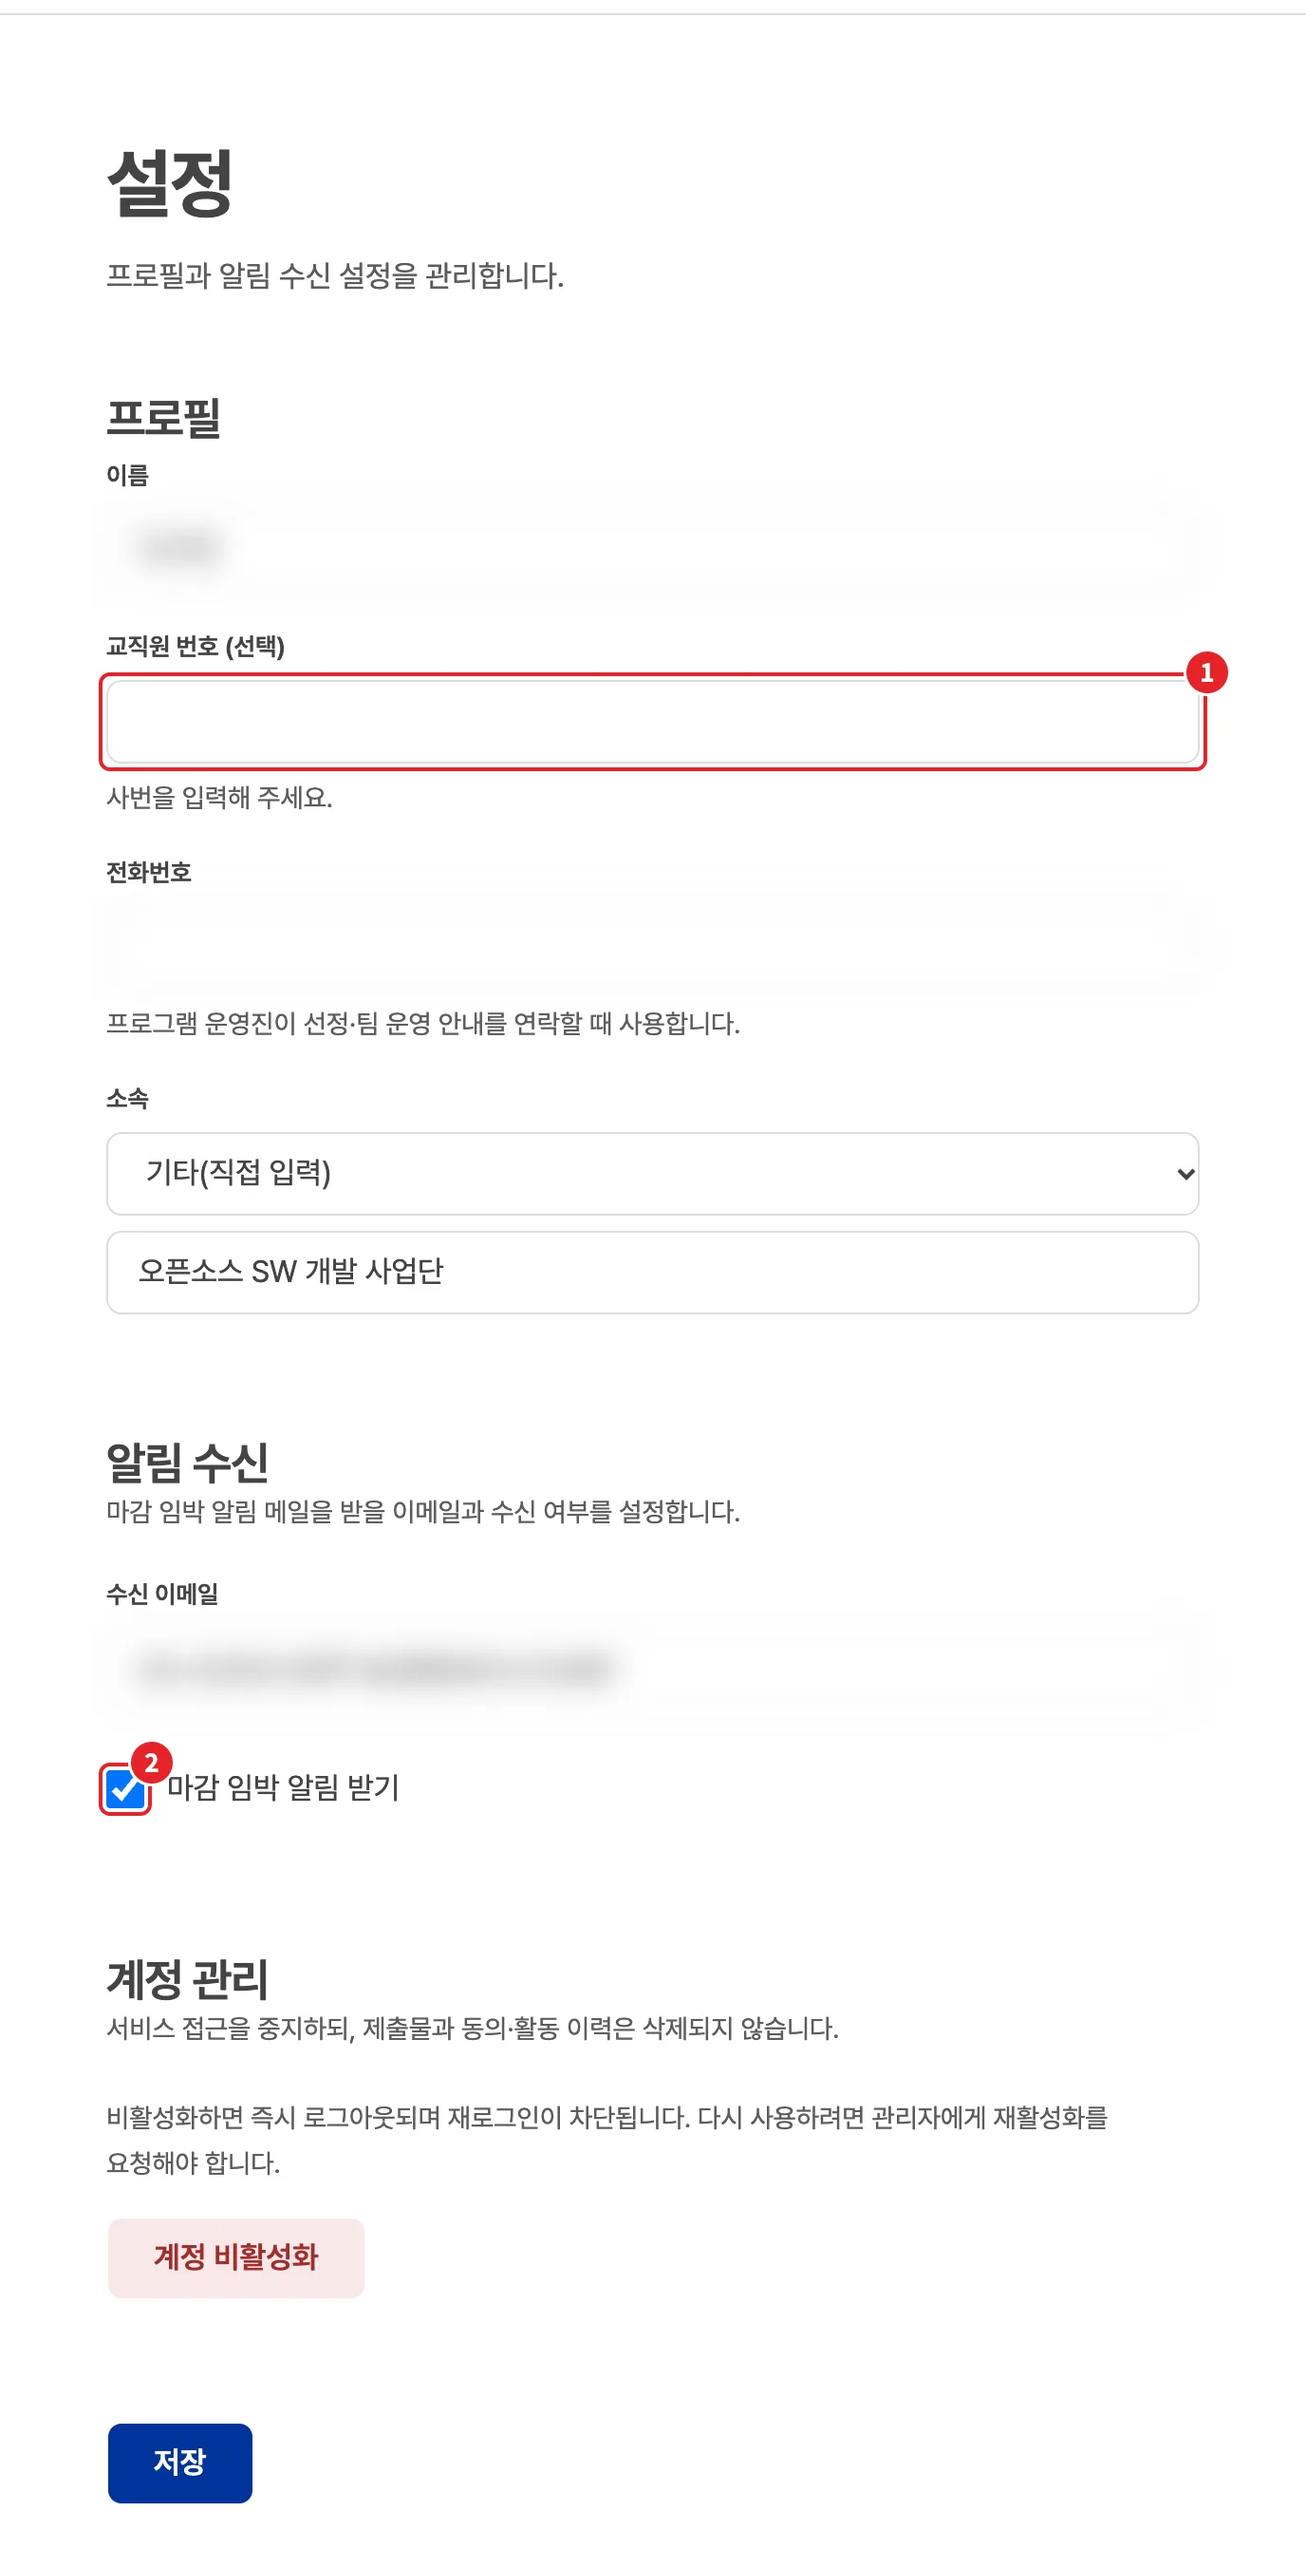
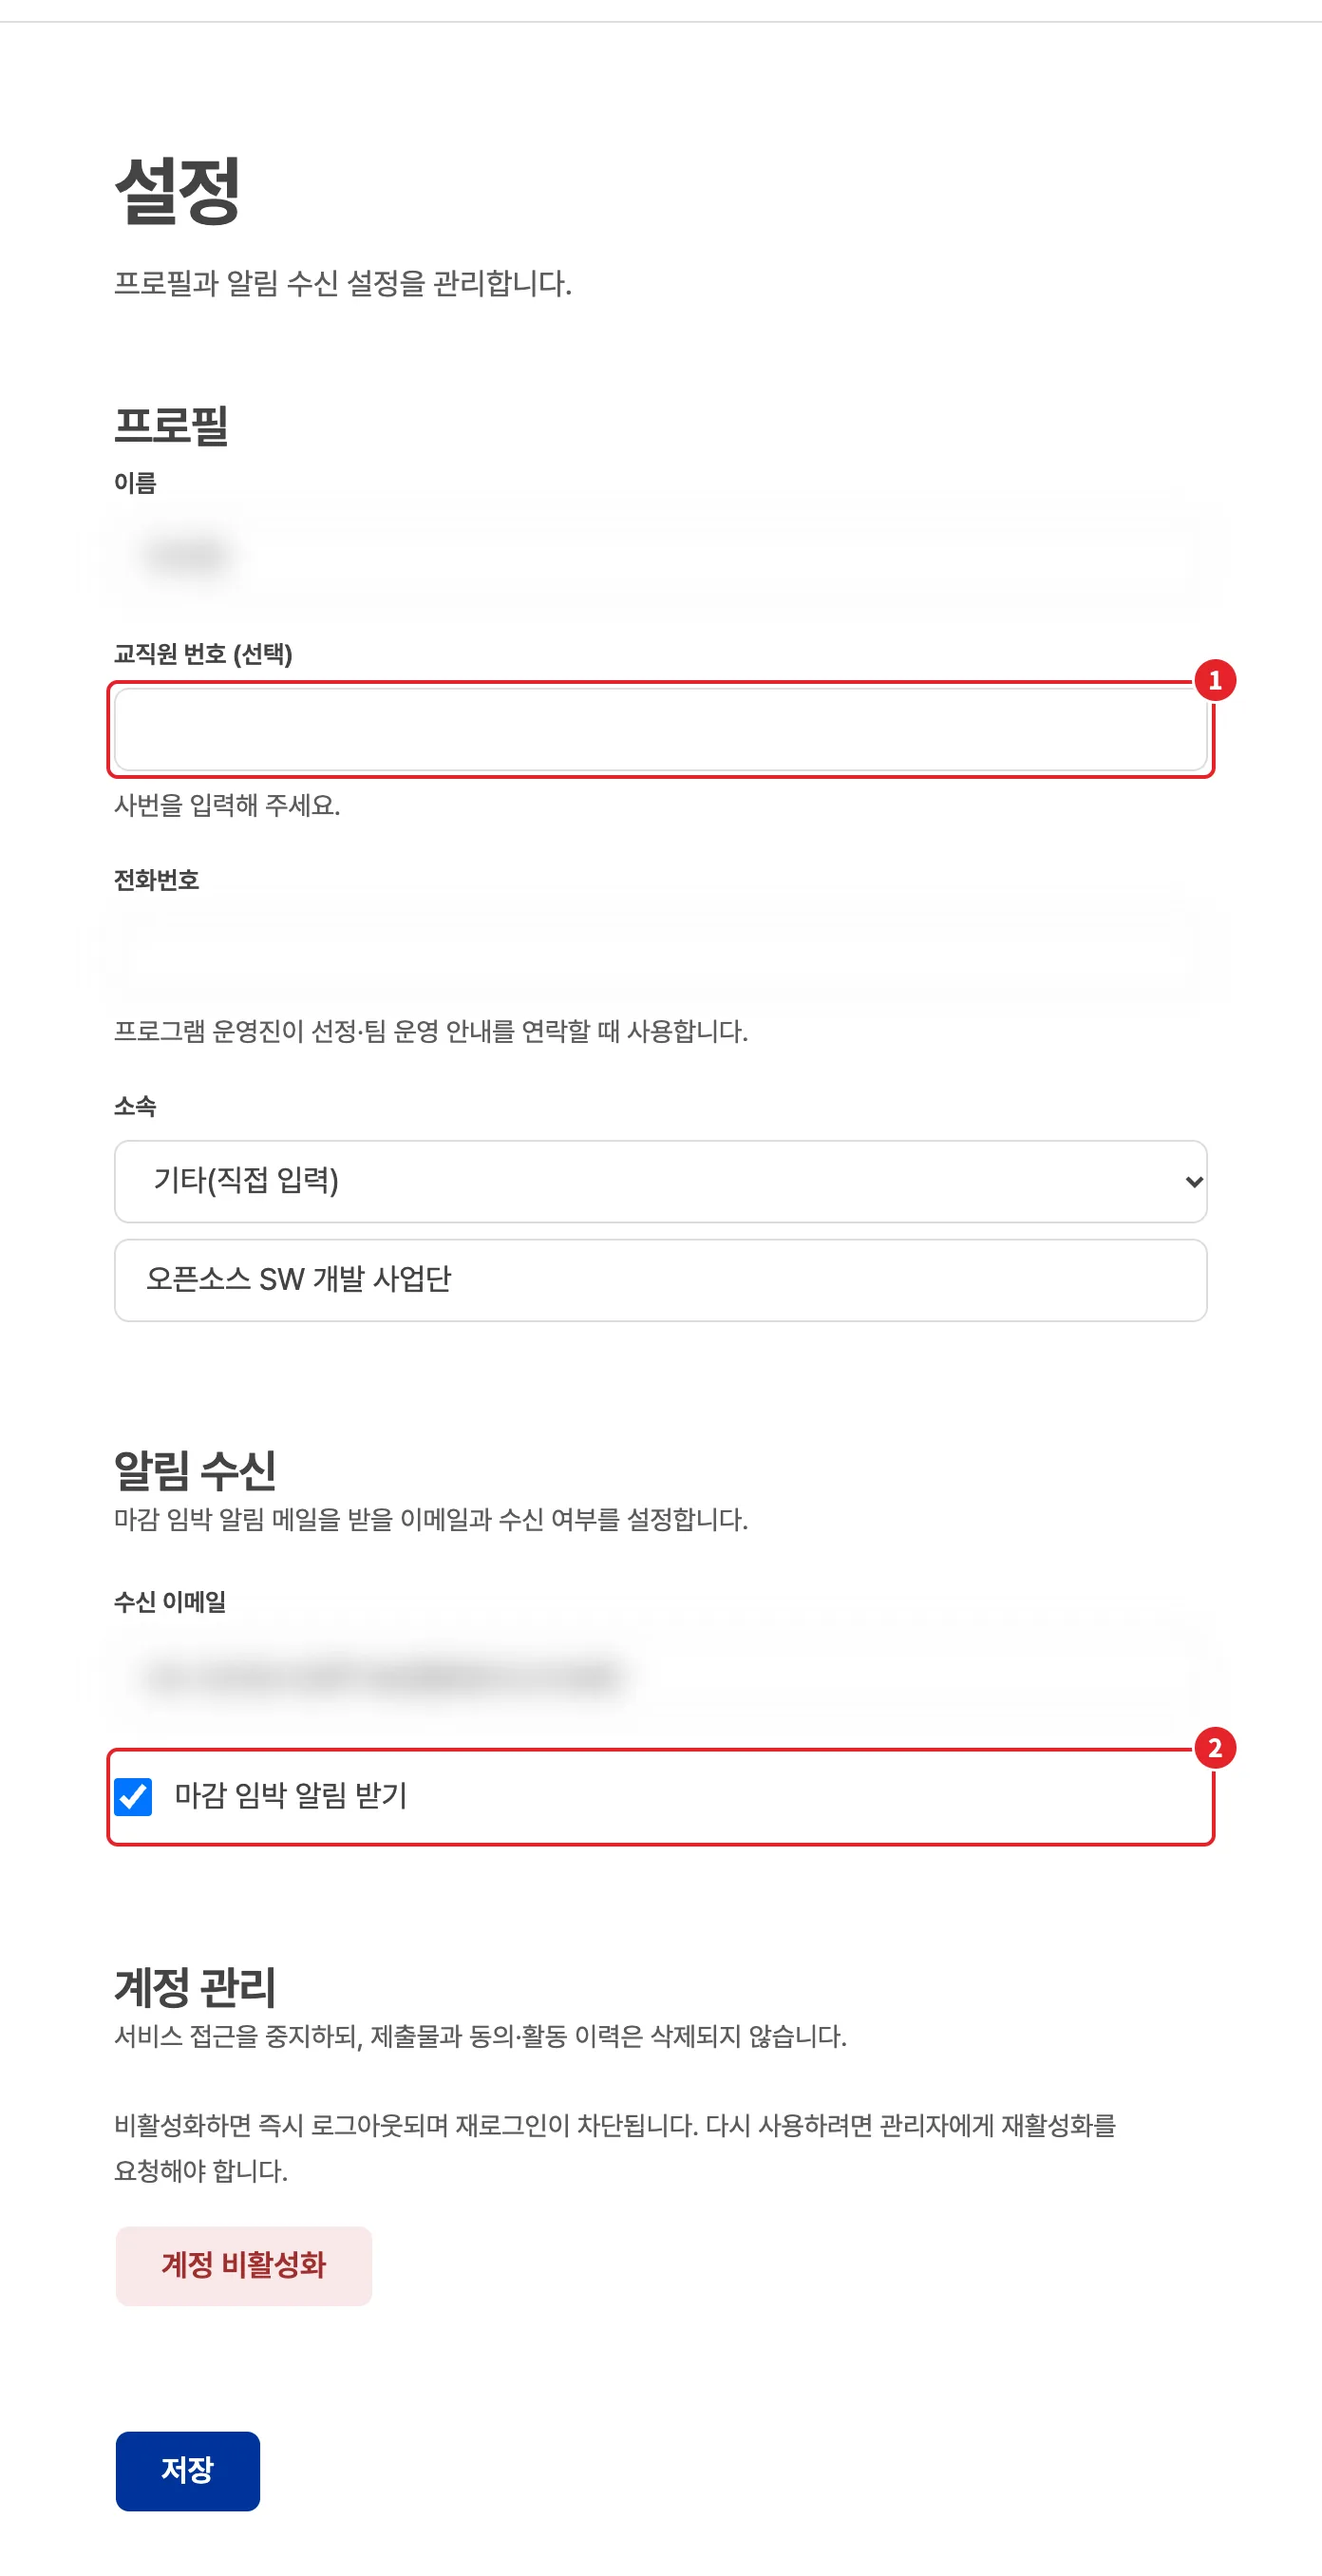
docs(skills): 이미지 잘림에서 배운 점을 가이드 스킬에 남긴다
랜딩 틀이 이미지를 강제로 자르지 않게 하고, 다시 찍을 때도 블러를 유지하며, 독자 시험 데이터가 찍히지 않게 하는 기준을 적는다.
교직원 설정 화면의 체크 칸은 줄 전체에 박스를 쳐서 번호 배지가 글자에 붙지 않게 하고, alt의 스위치 표현을 고친다.

diff --git a/skills/build-user-guide-site/references/capture-brief.md b/skills/build-user-guide-site/references/capture-brief.md
@@ -54,7 +54,9 @@ await closeAll();
 - **번호 배지와 박스 선은 글자를 가리지 않습니다.** 배지는 박스 오른쪽 위에 놓입니다. 체크박스처럼 작은 대상은 배지가 옆 글자를 덮으니 그 줄 전체나 오류 문구를 잡습니다. 박스가 날짜나 제목을 가로지르면 대상을 글자 전체로 넓히거나 다른 요소로 바꿉니다. 찍은 뒤 배지 밑 글자를 읽을 수 있는지 열어 봅니다.
 - **블러는 한 장 안에서 일관되게 합니다.** 같은 값이 한쪽은 가려지고 한쪽은 보이면 안 됩니다. 파일 이름은 사람을 가리키지 않는 한 가리지 않습니다.
 - **브라우저 기본 컨트롤의 언어를 확인합니다.** 파일 입력칸 같은 기본 컨트롤은 페이지가 아니라 브라우저 언어를 따릅니다. `Choose File`처럼 영어로 찍혔으면 한국어 브라우저로 다시 찍습니다. macOS에서는 `locale`과 `--lang`이 먹지 않으므로, Chrome을 `-AppleLanguages (ko) --remote-debugging-port=<포트>`로 직접 띄우고 Playwright `connectOverCDP`로 붙습니다.
-- 랜딩용 이미지(`landing/`)는 블러만 하고 박스는 치지 않습니다.
+- 랜딩용 이미지(`landing/`)도 블러 규칙이 같습니다. 헤더 계정 영역을 포함해 가리고, 박스는 치지 않습니다. 목록은 마지막 줄까지 보이도록 내용 높이에 맞춰 찍습니다.
+- **다시 찍을 때도 블러를 처음과 똑같이 넣습니다.** 잘림을 고치려고 다시 찍은 스크립트에서 계정 영역과 조직 이름 블러가 빠지기 쉽습니다. 처음 스크립트의 `blur` 인자를 그대로 가져옵니다.
+- **독자 시험에서 만든 데이터를 찍지 않습니다.** 독자 시험은 같은 격리 DB를 쓰므로 `독자시험팀` 같은 흔적이 남습니다. 시험 뒤에 다시 찍으려면 그 행부터 정리하거나 이름을 바꿉니다.
 - alt와 caption에는 사람 이름과 아이디를 쓰지 않습니다.
 - 매니페스트에 `marks` 열을 두고 박스 번호와 그 대상의 실제 라벨을 적습니다.
 

diff --git a/skills/build-user-guide-site/references/qa-and-polish.md b/skills/build-user-guide-site/references/qa-and-polish.md
@@ -14,6 +14,8 @@ node skills/build-user-guide-site/scripts/visual-audit.mjs [origin] [outJson]
 - 출력 JSON은 기본으로 임시 폴더에 쓰고 경로를 출력합니다(저장소를 더럽히지 않습니다).
 - 스크립트가 못 잡는 것은 사람이 봅니다. 다크 모드에서 흐린 이미지 테두리, 모바일에서 사이드바 동작, 이미지 클릭 확대.
 
+이미지 파일을 검수해도 페이지에서 다시 잘릴 수 있으니 랜딩과 본문을 렌더링한 화면으로도 봅니다. 빌드를 확인할 때 낡은 `astro preview`가 같은 포트를 잡고 대신 응답할 수 있습니다. 쓰지 않는 포트를 `127.0.0.1`에 명시해 띄우고, 화면이 예상과 다르면 포트를 먼저 의심합니다. 다시 찍은 이미지는 alt, caption, 본문 번호를 함께 대조합니다. 박스 위치나 컨트롤 종류(체크 칸과 스위치)가 바뀌어 있을 수 있습니다.
+
 결과는 `Area / Observed / Expected / Evidence`로 보고하게 하고, 고치는 일은 오케스트레이터가 집필 담당에게 돌려줍니다.
 
 ## 윤문 (`polish-<role>`)

diff --git a/skills/build-user-guide-site/references/site-scaffold.md b/skills/build-user-guide-site/references/site-scaffold.md
@@ -33,6 +33,8 @@ website/
   public/favicon.svg
 ```
 
+랜딩의 이미지 틀은 비율을 강제하지 않습니다. `aspect-ratio`와 `object-fit: cover`를 함께 쓰면 제대로 찍은 세로 이미지도 소리 없이 잘립니다. 이미지는 `width: 100%; height: auto`로 두고, 고정 비율은 이미지가 없을 때의 빈 틀에만 씁니다.
+
 `src/site.ts`는 `lastChecked`(마지막으로 화면을 확인한 날짜), `releaseVersion`(대조한 제품 버전), `serviceUrl`(`https://jnu-oss-hub.com`)을 가집니다. 화면을 다시 확인할 때마다 앞의 둘을 고칩니다.
 
 ## 컴포넌트 계약

diff --git a/skills/build-user-guide-site/SKILL.md b/skills/build-user-guide-site/SKILL.md
@@ -8,7 +8,7 @@ description: >-
   서브에이전트를 병렬로 돌려 캡처·집필·사실 확인·시각 검수·윤문을 하고,
   마일스톤마다 커밋·푸시·Pages 확인을 반복한다. 노션 핸드북은 build-oss-hub-handbook, PR은 submit-pr-evidence를 쓴다.
 metadata:
-  version: "1.0.5"
+  version: "1.0.6"
 ---
 
 # 사용자 가이드 사이트 만들기와 갱신
